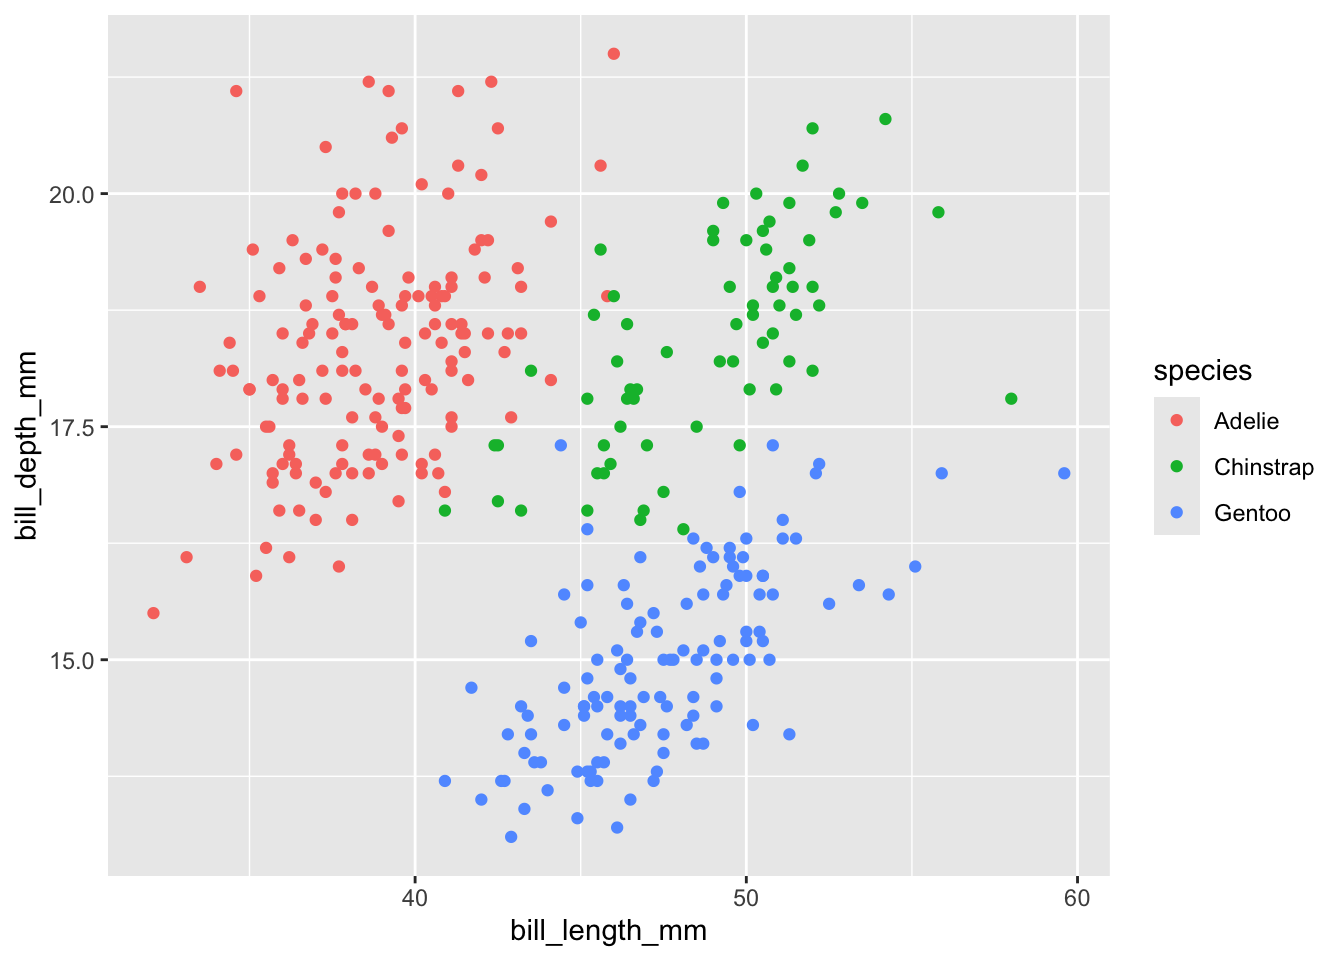
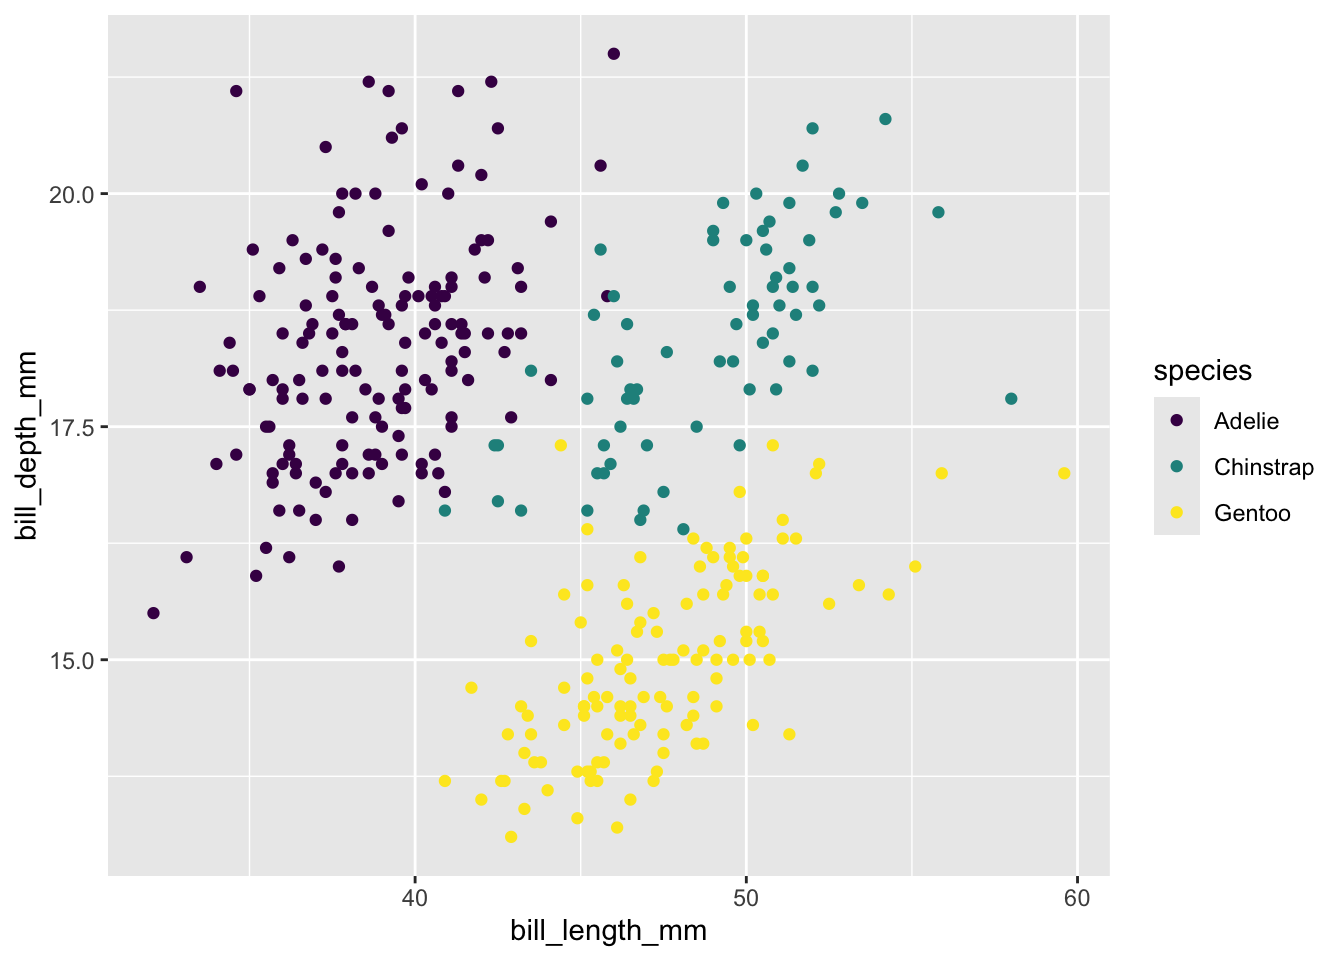
changed colors

diff --git a/eds212_day2_activities.html b/eds212_day2_activities.html
@@ -144,7 +144,10 @@ pre > code.sourceCode > span > a:first-child::before { text-decoration: underlin
 <span id="cb8-4"><a href="#cb8-4" aria-hidden="true" tabindex="-1"></a></span>
 <span id="cb8-5"><a href="#cb8-5" aria-hidden="true" tabindex="-1"></a>data <span class="ot">=</span> penguins</span>
 <span id="cb8-6"><a href="#cb8-6" aria-hidden="true" tabindex="-1"></a></span>
-<span id="cb8-7"><a href="#cb8-7" aria-hidden="true" tabindex="-1"></a><span class="fu">ggplot</span>(<span class="at">data =</span> penguins, <span class="fu">aes</span>(<span class="at">x =</span> bill_length_mm, <span class="at">y =</span> bill_depth_mm, <span class="at">color =</span> species)) <span class="sc">+</span> <span class="fu">geom_point</span>()</span></code><button title="Copy to Clipboard" class="code-copy-button"><i class="bi"></i></button></pre></div>
+<span id="cb8-7"><a href="#cb8-7" aria-hidden="true" tabindex="-1"></a><span class="fu">ggplot</span>(<span class="at">data =</span> penguins, </span>
+<span id="cb8-8"><a href="#cb8-8" aria-hidden="true" tabindex="-1"></a>       <span class="fu">aes</span>(<span class="at">x =</span> bill_length_mm, <span class="at">y =</span> bill_depth_mm, <span class="at">color =</span> species)) <span class="sc">+</span> </span>
+<span id="cb8-9"><a href="#cb8-9" aria-hidden="true" tabindex="-1"></a>  <span class="fu">geom_point</span>() <span class="sc">+</span> </span>
+<span id="cb8-10"><a href="#cb8-10" aria-hidden="true" tabindex="-1"></a>  <span class="fu">scale_color_viridis_d</span>()</span></code><button title="Copy to Clipboard" class="code-copy-button"><i class="bi"></i></button></pre></div>
 <div class="cell-output cell-output-stderr">
 <pre><code>Warning: Removed 2 rows containing missing values or values outside the scale range
 (`geom_point()`).</code></pre>
@@ -158,7 +161,11 @@ pre > code.sourceCode > span > a:first-child::before { text-decoration: underlin
 </div>
 </div>
 <div class="cell">
-<div class="sourceCode cell-code" id="cb10"><pre class="sourceCode r code-with-copy"><code class="sourceCode r"><span id="cb10-1"><a href="#cb10-1" aria-hidden="true" tabindex="-1"></a><span class="fu">ggplot</span>(<span class="at">data =</span> penguins, <span class="fu">aes</span>(<span class="at">x =</span> species, <span class="at">y =</span> flipper_length_mm, <span class="at">color =</span> species)) <span class="sc">+</span> <span class="fu">geom_jitter</span>() <span class="sc">+</span> <span class="fu">labs</span>(<span class="at">title =</span> <span class="st">"Flipper Length by Species"</span>, <span class="at">x =</span> <span class="st">"Species"</span>, <span class="at">y =</span> <span class="st">"Flipper Length"</span>)</span></code><button title="Copy to Clipboard" class="code-copy-button"><i class="bi"></i></button></pre></div>
+<div class="sourceCode cell-code" id="cb10"><pre class="sourceCode r code-with-copy"><code class="sourceCode r"><span id="cb10-1"><a href="#cb10-1" aria-hidden="true" tabindex="-1"></a><span class="fu">ggplot</span>(<span class="at">data =</span> penguins, </span>
+<span id="cb10-2"><a href="#cb10-2" aria-hidden="true" tabindex="-1"></a>       <span class="fu">aes</span>(<span class="at">x =</span> species, <span class="at">y =</span> flipper_length_mm, <span class="at">color =</span> species, )) <span class="sc">+</span> </span>
+<span id="cb10-3"><a href="#cb10-3" aria-hidden="true" tabindex="-1"></a>  <span class="fu">geom_jitter</span>() <span class="sc">+</span></span>
+<span id="cb10-4"><a href="#cb10-4" aria-hidden="true" tabindex="-1"></a>  <span class="fu">labs</span>(<span class="at">title =</span> <span class="st">"Flipper Length by Species"</span>, <span class="at">x =</span> <span class="st">"Species"</span>, <span class="at">y =</span> <span class="st">"Flipper Length"</span>) <span class="sc">+</span> </span>
+<span id="cb10-5"><a href="#cb10-5" aria-hidden="true" tabindex="-1"></a>  <span class="fu">scale_color_viridis_d</span>()</span></code><button title="Copy to Clipboard" class="code-copy-button"><i class="bi"></i></button></pre></div>
 <div class="cell-output cell-output-stderr">
 <pre><code>Warning: Removed 2 rows containing missing values or values outside the scale range
 (`geom_point()`).</code></pre>
